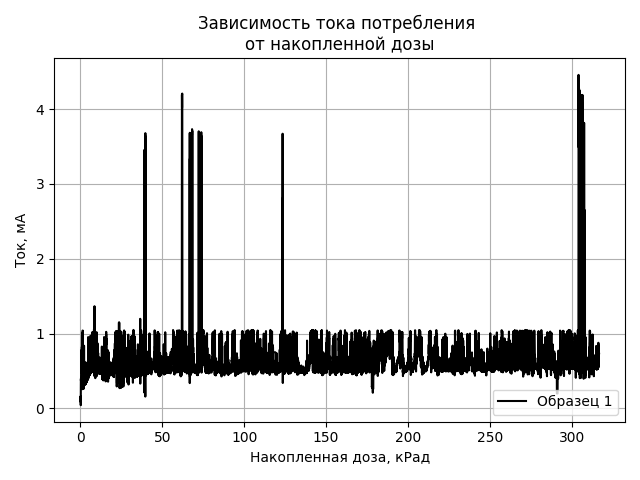
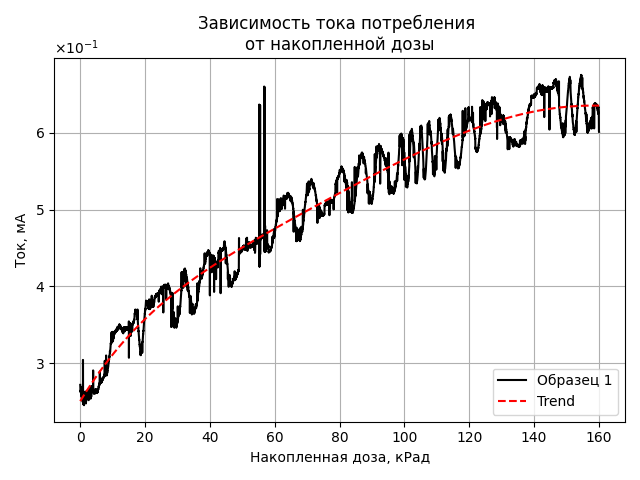
+trend

diff --git a/main.py b/main.py
@@ -9,12 +9,15 @@ def main(argv):
     :param argv:
     :return:
     """
+
     # program, *args = argv
     parser = argparse.ArgumentParser()
     parser.add_argument('--i', '-i', help="Название лог файла", type=str, required=True)
-    parser.add_argument('--un', '-un', help="Файл с необработанными строками лога, default = unknown_result.txt", type=str,
+    parser.add_argument('--un', '-un', help="Файл с необработанными строками лога, default = unknown_result.txt",
+                        type=str,
                         default='unknown_result.txt')
-    parser.add_argument('--o', '-o', help="Обработанный файл формата Время - Ток, default = result.txt", type=str, default='result.txt')
+    parser.add_argument('--o', '-o', help="Обработанный файл формата Время - Ток, default = result.txt", type=str,
+                        default='result.txt')
     parser.add_argument('--p', '-p',
                         help="Патерн для обработки формата python regex в виде raw str, default = r'(?P<date>\d{2}\.\d{2}\.\d{2}) (?P<time>\d{2}:\d{2}:\d{2},\d+)\s+(?P<doze>[^\s]+).+'\n"
                              "должен включать группы совпадения <date> <time> <doze>",
@@ -22,15 +25,20 @@ def main(argv):
                         default=r'(?P<date>\d{2}\.\d{2}\.\d{2}) (?P<time>\d{2}:\d{2}:\d{2},\d+)\s+(?P<doze>[^\s]+).+')
     parser.add_argument('--intens', '-intens', help="Интенсивность облучения в рентген/сек, default = 112", type=float,
                         default=112)
-    parser.add_argument('--oimg', '-oimg', help="Сохраняет график в файл, default = plot.png", type=str, default='plot.png')
-    parser.add_argument('--dname', '-dname', help="Название образца на легенде, default = Образец 1", type=str, default='Образец 1')
+    parser.add_argument('--oimg', '-oimg', help="Сохраняет график в файл, default = plot.png", type=str,
+                        default='plot.png')
+    parser.add_argument('--dname', '-dname', help="Название образца на легенде, default = Образец 1", type=str,
+                        default='Образец 1')
+    parser.add_argument('--pow', '-pow', help="Степень полинома", type=int, default=1)
+    parser.add_argument('--trend', '-trend', help="Нарисовать линию тренда", type=bool, default=False)
     parser.add_argument('--l', '-l', help="Чит - лимит", type=float, default=10000000000)
 
     args = parser.parse_args()
     response, error_flag = files_r_w(args.i, output=args.o, unknowns=args.un, pattern=args.p, limit=args.l)
     print(response)
     if not error_flag:
-        plot_plot(file_to_read=args.o, inten=args.intens, outimage=args.oimg, dut_name=args.dname)
+        plot_plot(file_to_read=args.o, inten=args.intens, outimage=args.oimg, dut_name=args.dname,
+                  trend_poly_pow=args.pow, trend=args.trend)
 
 
 if __name__ == '__main__':

diff --git a/func_lib.py b/func_lib.py
@@ -84,7 +84,8 @@ def files_r_w(logfile, output='result.txt', unknowns='unknown_result.txt',
            error_flag
 
 
-def plot_plot(file_to_read='result.txt', inten=112, outimage='plot.png', dut_name="Образец 1"):
+def plot_plot(file_to_read='result.txt', inten=112, outimage='plot.png', dut_name="Образец 1", trend=False,
+              trend_poly_pow=5):
     koef = 0.88
     intensity = inten
     x_axix = []
@@ -103,7 +104,7 @@ def plot_plot(file_to_read='result.txt', inten=112, outimage='plot.png', dut_nam
                         elapsed = datetime.strptime(mtime, '%H:%M:%S.%f')
                     x = ((elapsed.hour * 3600 + elapsed.minute * 60 + elapsed.second +
                           elapsed.microsecond / 1_000_000) * koef * intensity) / 1000
-                    y = float(match.group('doze'))*1_000
+                    y = float(match.group('doze')) * 1_000
                     fwriter.write(f'{x:.3f}\t{y:.3f}\n')
                     x_axix.append(x)
                     y_axix.append(y)
@@ -113,6 +114,14 @@ def plot_plot(file_to_read='result.txt', inten=112, outimage='plot.png', dut_nam
     plt.xlabel('Накопленная доза, кРад')
     plt.ylabel('Ток, мА')
     plt.plot(x_axix, y_axix, '-0', label=dut_name)
+    if trend:
+        xnp = np.array(x_axix)
+        ynp = np.array(y_axix)
+        z = np.polyfit(xnp, ynp, trend_poly_pow)
+        p = np.poly1d(z)
+        print(f'Использованный полином:')
+        print(p)
+        plt.plot(xnp, p(xnp), '--r', label='Trend')
     plt.legend(loc='lower right')
     plt.grid()
     plt.tight_layout()
